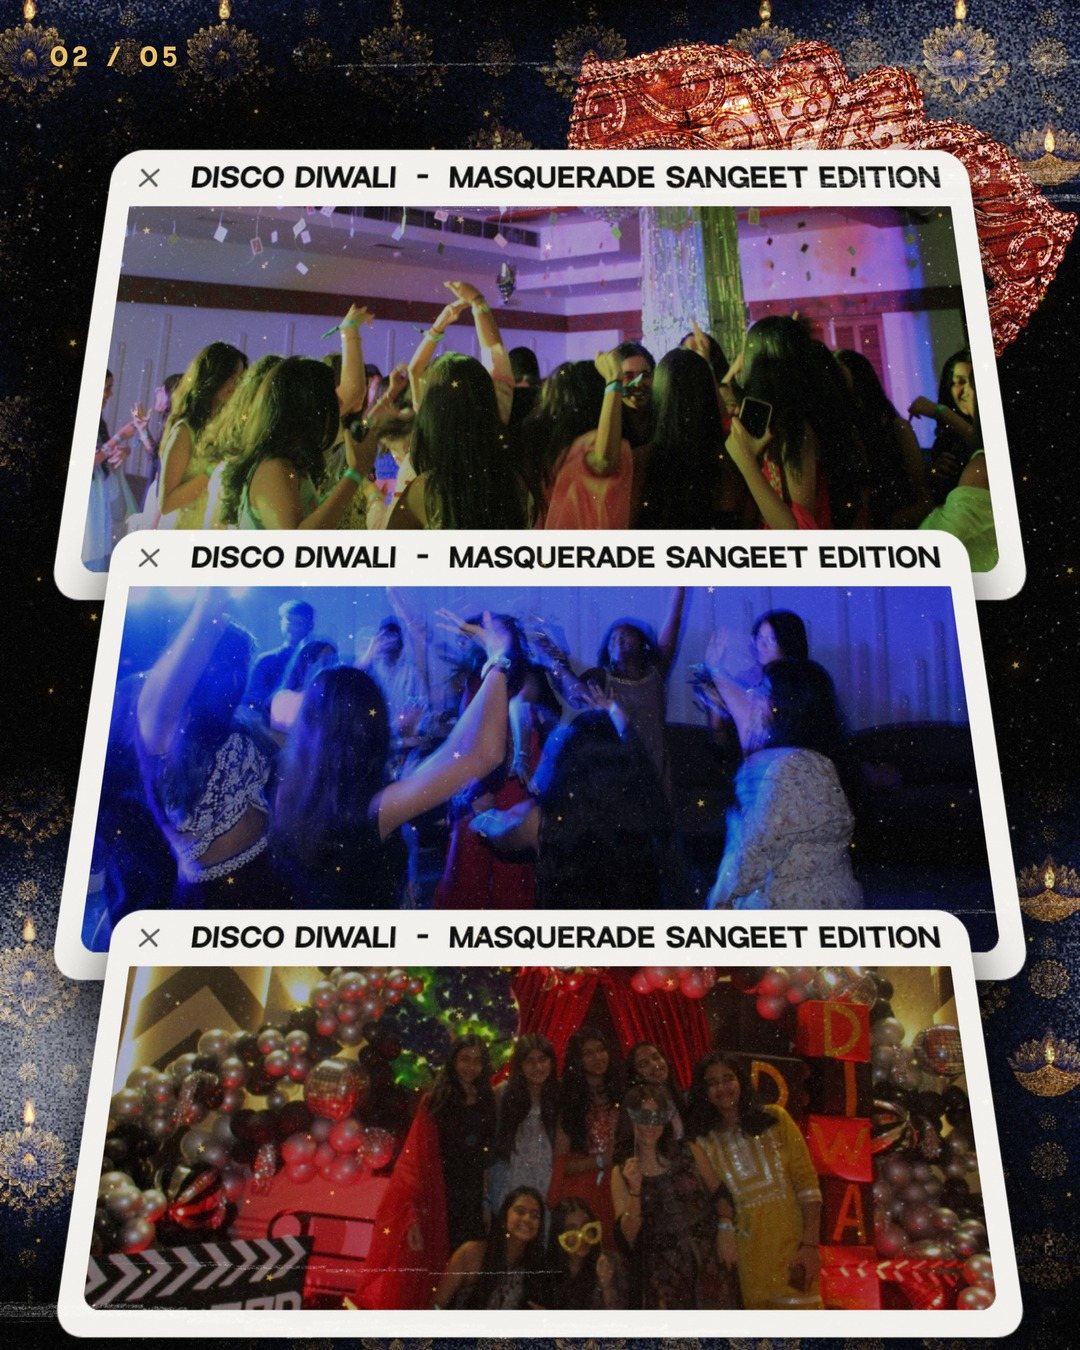
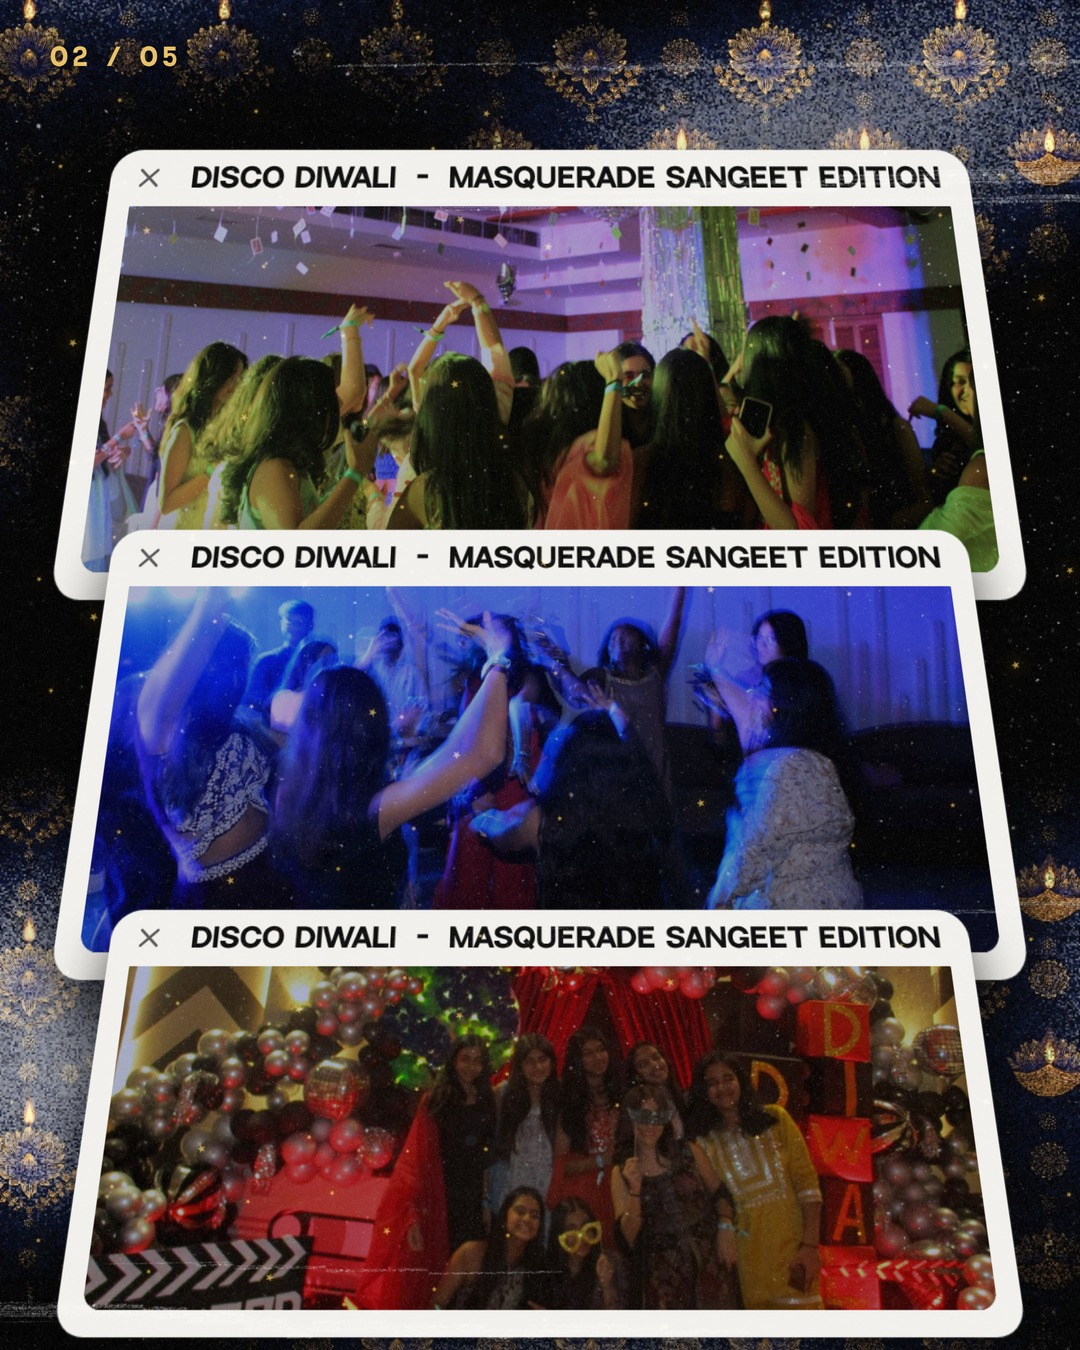
Disco Diwali window carousel: remove the mask from slides 2 and 3
Claude-Session: https://claude.ai/code/session_01HW9NLUoNVqWbubcRN9wD4m

Changed region(s): [[0.5194, 0.0311, 1.0, 0.28]]

diff --git a/scratchpad/dd_window_carousel.py b/scratchpad/dd_window_carousel.py
@@ -8,7 +8,7 @@ while each window's photo is cut off by the next. The repetition of the same tit
 
 Slides (1080x1350, feed 4:5):
   01 cover   badge + copper mask + ball title lockup, two windows bleeding off the bottom, swipe cue
-  02 stack   three windows, three dance photos, the mask peeking out behind the top one
+  02 stack   three windows, three photos
   03 pile    a loose diagonal cascade of three windows, one hero photo in front
   04 info    four windows, the SAME title bar on each, one fact per window (date, time, tickets, details)
   05 cta     badge + mask + title again, a search window whose field reads LINK IN BIO
@@ -143,7 +143,6 @@ def slide1():
 def slide2():
     s = Slide(2)
     s.ground()
-    s.mask(560, 40, 520, z=6, extra="transform:rotate(8deg);")       # peeks out behind the top window, bleeding off the right edge
     s.index_tag()
     ys = (150, 530, 910)
     focus = ("50% 45%", "50% 58%", "50% 62%")
@@ -155,7 +154,6 @@ def slide2():
 def slide3():
     s = Slide(3)
     s.ground()
-    s.mask(640, 70, 400, z=6, extra="transform:rotate(10deg);")
     s.index_tag()
     s.window("w1", 90, 150, 690, 540, s.photo("08", "50% 85%"), z=10, tilt=14, roll=-2, bar_text="DISCO DIWALI")
     s.window("w2", 300, 420, 640, 590, s.photo("09", "50% 55%", bright=1.5), z=11, tilt=14, roll=2, bar_text="DISCO DIWALI")
